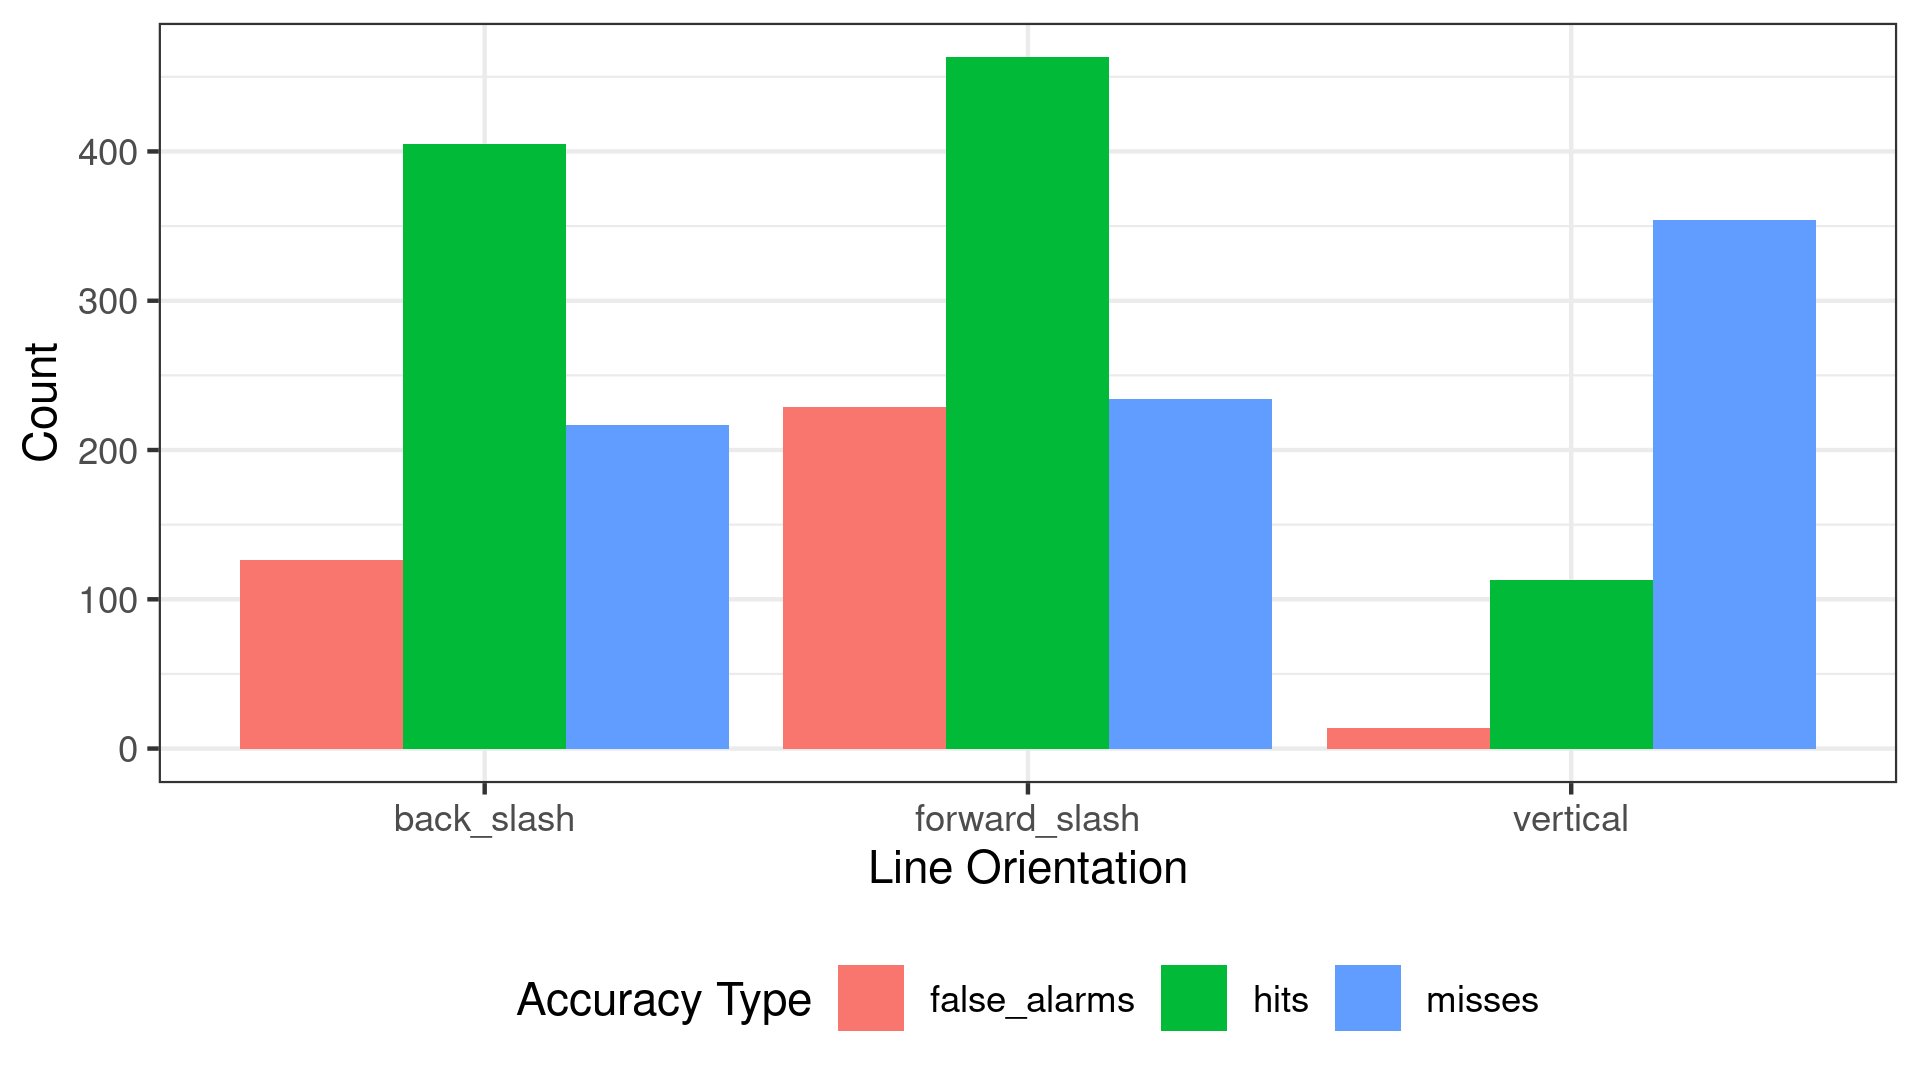
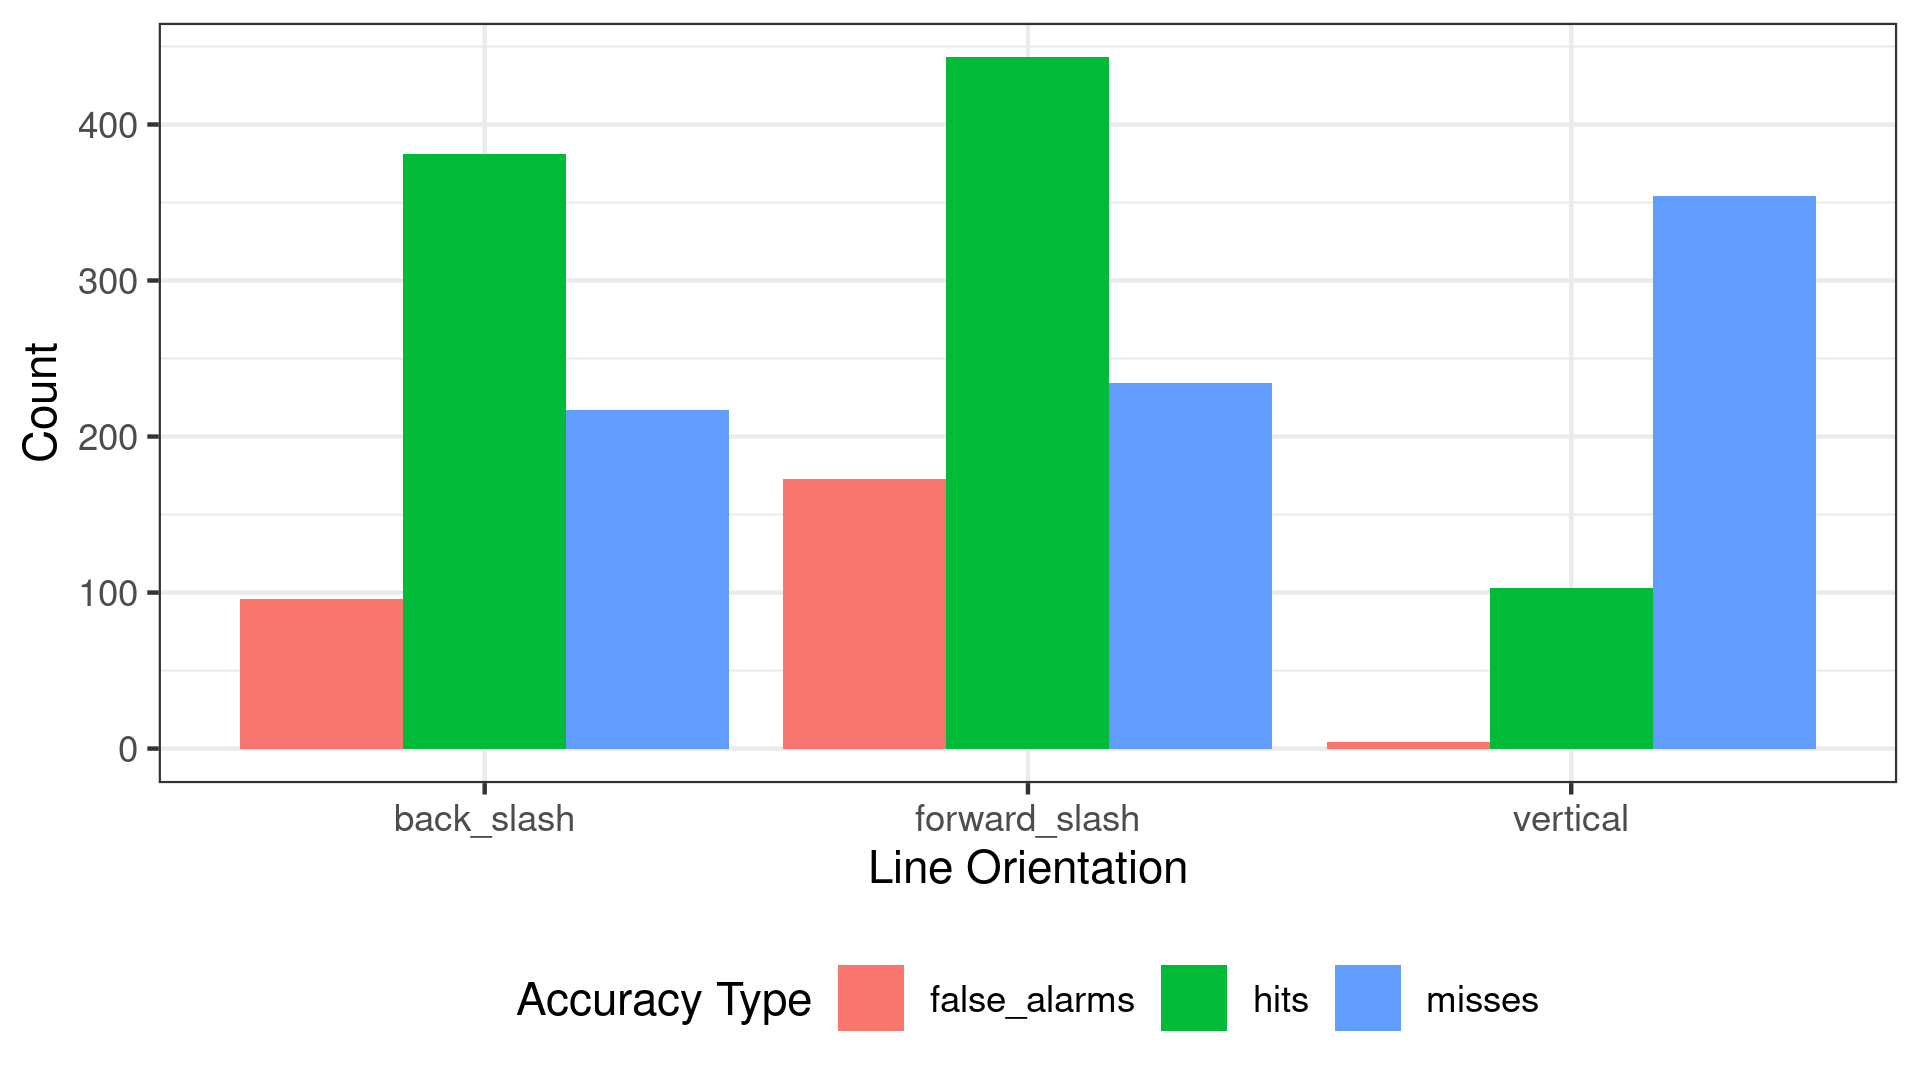
Modifications to line orientation summary

diff --git a/visual-search/exp1/analysis/scripts/eda/index.html b/visual-search/exp1/analysis/scripts/eda/index.html
@@ -1781,18 +1781,27 @@ head(d)</code></pre>
   thinnest_lines_set &lt;- thinnest_lines[thinnest_lines$participant == participant &amp; thinnest_lines$trial_count == trial,]$line_id
   
   ## determine the final three lines they selected
+  ## some extra logic to assign NA to any lines that were selected and later released
   selected_lines &lt;- c(NA, NA, NA)
+  indices &lt;- c(NA, NA, NA)
   for (row in 1:(nrow(d))) {
     if (d[row,]$selected_or_released == 'selected') {
-      selected_lines[which(is.na(selected_lines))[1]] &lt;- d[row,]$line_id
+      slot &lt;- which(is.na(selected_lines))[1]
+      selected_lines[slot]&lt;- d[row,]$line_id
+      indices[slot] &lt;- row
     } else {
-      selected_lines[!(is.na(selected_lines)) &amp; selected_lines == d[row,]$line_id] &lt;- NA
+      slot &lt;- which(!(is.na(selected_lines)) &amp; selected_lines == d[row,]$line_id)
+      selected_lines[slot] &lt;- NA
+      indices[slot] &lt;- NA
     }
   }
   
-  selected_lines_accuracy_column &lt;- ifelse(is.na(d$bottom_y), NA, ifelse(d$line_id %in% selected_lines &amp; d$line_id %in% thinnest_lines_set, 'hit', 'false_alarm'))
+  selected_lines_accuracy_column &lt;- rep(NA, nrow(d))
+  accuracy_code &lt;- ifelse(selected_lines %in% thinnest_lines_set, 'hit', 'false_alarm')
+  selected_lines_accuracy_column[indices] &lt;- accuracy_code
+
   return(selected_lines_accuracy_column)
-  
+
 }
 
 out  &lt;- vector()
@@ -1834,7 +1843,7 @@ thinnest_lines &lt;- d %&gt;%
   ) + 
   theme_bw() + 
   theme(legend.position = 'bottom')</code></pre>
[2 lines of base64/hex data omitted]
 <pre class="r"><code>ggsave('line_orientation.png', height = 1080 / 300, width = 1920 / 300, units = 'in', dpi = 300)</code></pre>
 </div>
 
